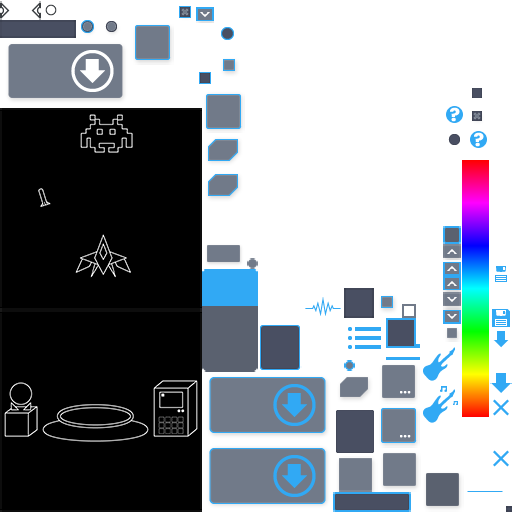
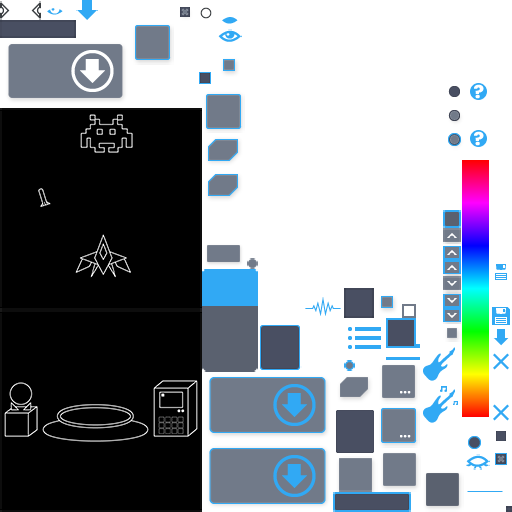
Added hide button to hide the GUI.

diff --git a/Particle Park Code/core/src/com/ray3k/particlepark/screens/DemoScreen.java b/Particle Park Code/core/src/com/ray3k/particlepark/screens/DemoScreen.java
@@ -24,6 +24,7 @@
 package com.ray3k.particlepark.screens;
 
 import com.badlogic.gdx.Gdx;
+import com.badlogic.gdx.InputAdapter;
 import com.badlogic.gdx.Screen;
 import com.badlogic.gdx.audio.Music;
 import com.badlogic.gdx.audio.Sound;
@@ -473,7 +474,7 @@ public class DemoScreen implements Screen {
         stage.addActor(root);
         
         menuButton = new ImageButton(skin, "menu");
-        root.add(menuButton).expand().top().left();
+        root.add(menuButton);
         menuButton.addListener(core.handListener);
         menuButton.addListener(new ChangeListener() {
             @Override
@@ -484,9 +485,37 @@ public class DemoScreen implements Screen {
             }
         });
         
+        root.row().expandY();
+        root.add();
+        
+        root.row();
+        final ImageButton hideButton = new ImageButton(skin, "eye");
+        root.add(hideButton).bottom().left().fill();
+        hideButton.addListener(core.handListener);
+        hideButton.addListener(new ChangeListener() {
+            @Override
+            public void changed(ChangeListener.ChangeEvent event, Actor actor) {
+                if (hideButton.isChecked()) {
+                    stage.addAction(Actions.fadeOut(1.0f));
+                    Gdx.input.setInputProcessor(new InputAdapter() {
+                        @Override
+                        public boolean touchDown(int screenX, int screenY, int pointer, int button) {
+                            Gdx.graphics.setSystemCursor(Cursor.SystemCursor.Arrow);
+                            Gdx.input.setInputProcessor(stage);
+                            stage.addAction(Actions.fadeIn(1.0f));
+                            hideButton.setChecked(false);
+                            return true;
+                        }
+                        
+                    });
+                    Gdx.graphics.setSystemCursor(Cursor.SystemCursor.Hand);
+                }
+            }
+        });
+        
         final ImageButton bgmButton = new ImageButton(skin, "bgm");
         bgmButton.setChecked(core.preferences.getBoolean("bgm", true));
-        root.add(bgmButton).expand().bottom().right();
+        root.add(bgmButton).bottom().right().expandX();
         bgmButton.addListener(core.handListener);
         bgmButton.addListener(new ChangeListener() {
             @Override
